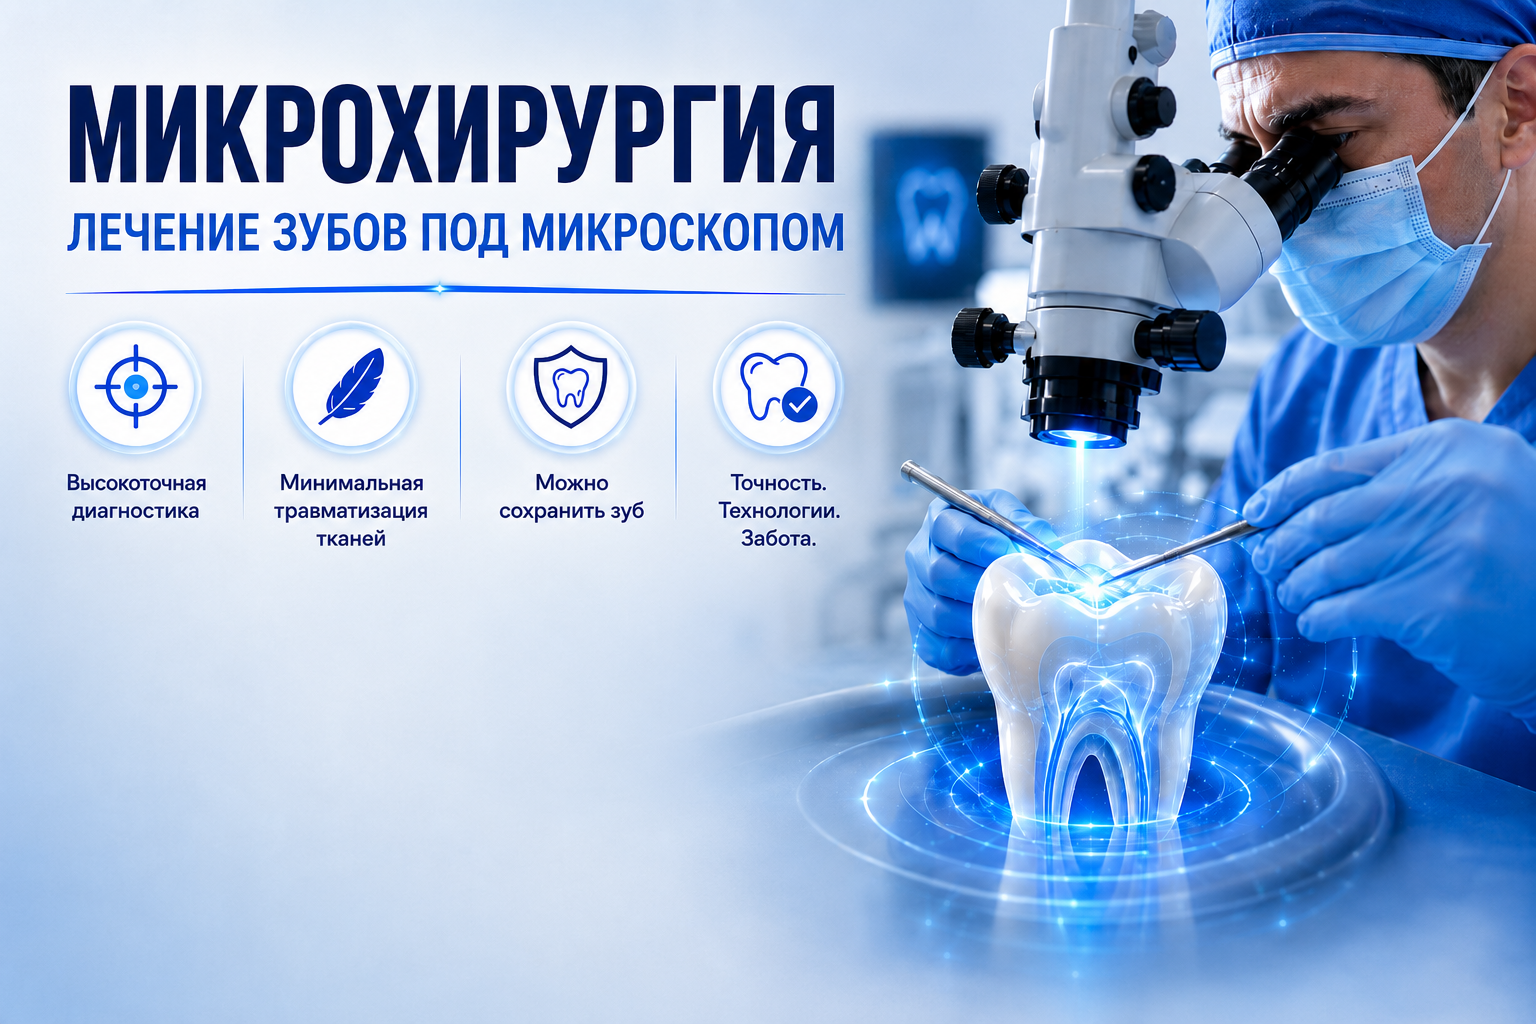
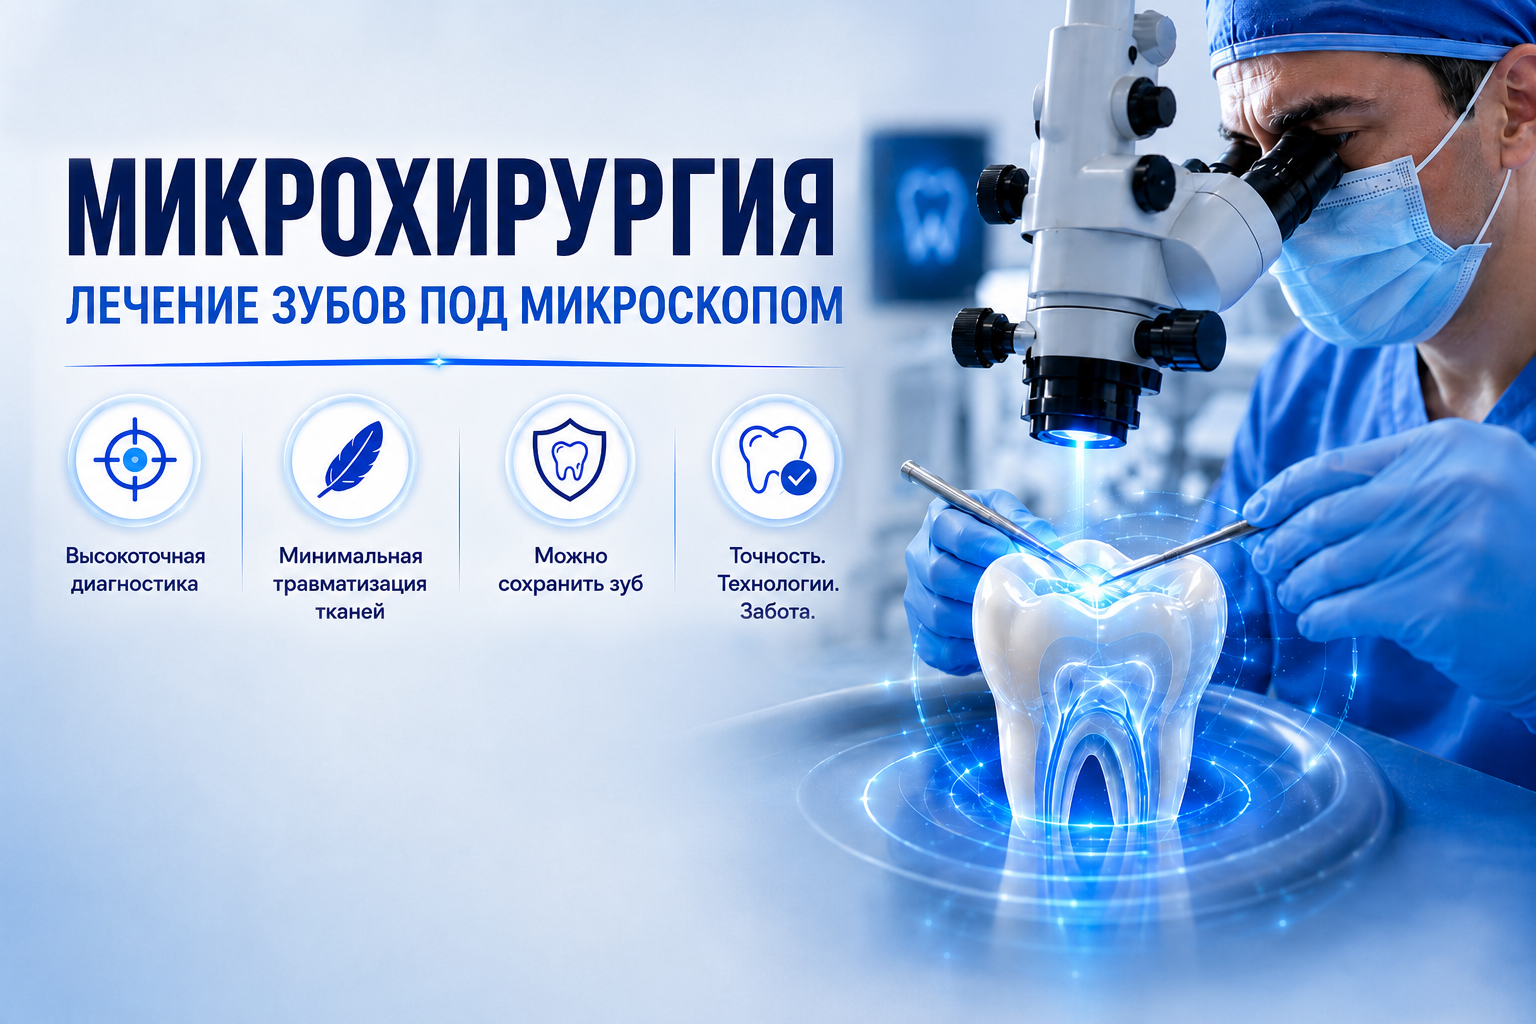
Adjust services slider assets

Changed region(s): [[0.0312, 0.0625, 0.5625, 0.625]]

diff --git a/src/styles/ServicesPage.css b/src/styles/ServicesPage.css
@@ -59,13 +59,14 @@
 
 .services-slider__image {
   position: absolute;
-  inset: 0;
+  inset: 0 0 auto;
   z-index: 1;
   width: 100%;
-  height: 100%;
+  height: calc(100% + clamp(18px, 2.2vh, 30px));
   object-fit: cover;
   object-position: center top;
   filter: saturate(1.02);
+  --service-image-offset-y: clamp(-30px, -1.8vh, -14px);
   animation: service-slide-in 0.64s cubic-bezier(0.2, 0.82, 0.2, 1) both;
 }
 
@@ -208,13 +209,13 @@
   0% {
     opacity: 0;
     filter: blur(8px) saturate(1.02);
-    transform: translateX(24px) scale(1.012);
+    transform: translateX(24px) translateY(var(--service-image-offset-y)) scale(1.012);
   }
 
   100% {
     opacity: 1;
     filter: blur(0) saturate(1.02);
-    transform: translateX(0) scale(1);
+    transform: translateX(0) translateY(var(--service-image-offset-y)) scale(1);
   }
 }
 
@@ -222,13 +223,13 @@
   0% {
     opacity: 0;
     filter: blur(8px) saturate(1.02);
-    transform: translateX(-24px) scale(1.012);
+    transform: translateX(-24px) translateY(var(--service-image-offset-y)) scale(1.012);
   }
 
   100% {
     opacity: 1;
     filter: blur(0) saturate(1.02);
-    transform: translateX(0) scale(1);
+    transform: translateX(0) translateY(var(--service-image-offset-y)) scale(1);
   }
 }
 